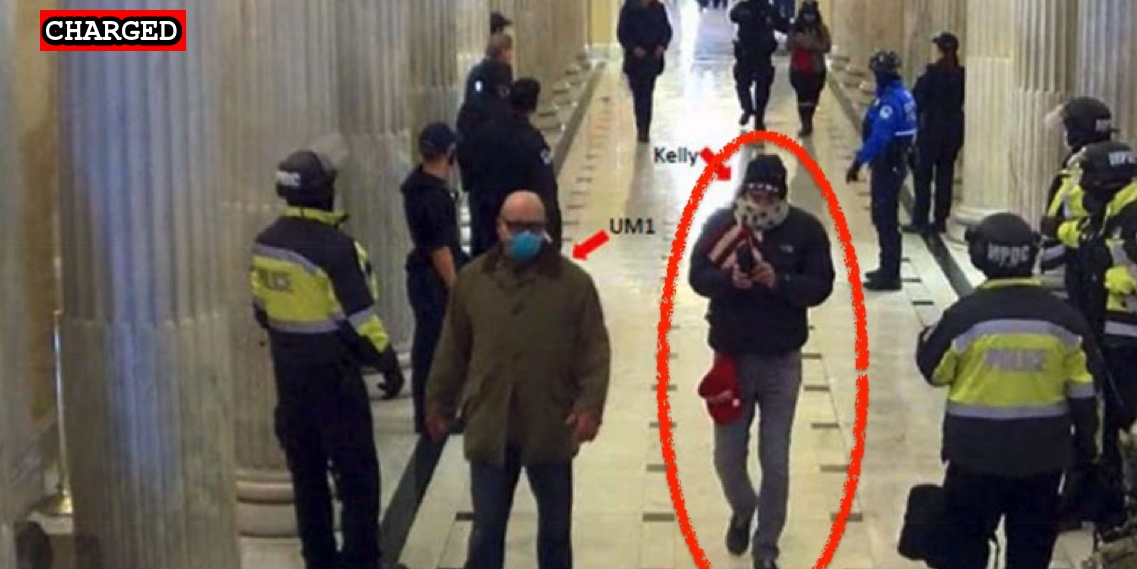
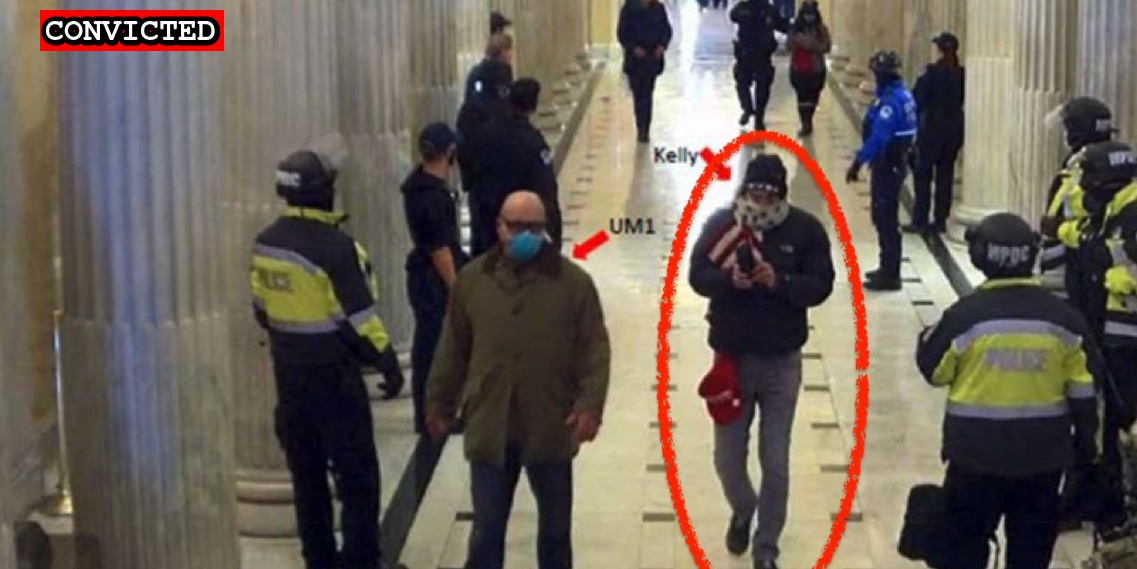
Kelly conviction

Changed region(s): [[0.0308, 0.0, 0.2155, 0.0896]]

diff --git a/docs/_suspects/kenneth-kelly.md b/docs/_suspects/kenneth-kelly.md
@@ -3,11 +3,11 @@ name: Kenneth Kelly
 lastName: Kelly
 aka:
 residence: Florida
-status: Charged
+status: Convicted
 date: 2021-04-21
 charged: 2021-04-21
 indicted:
-convicted:
+convicted: 2021-09-17
 sentenced:
 dismissed:
 age: 58
@@ -27,6 +27,11 @@ description: Click for latest case details. Suspects innocent until proven guilt
 author: seditiontrack
 layout: suspect
 published: true
+charges:
+  - code: 18 USC § 5104(e)(2)(G)
+    title: Parading, Demonstrating or Picketing in a Capitol Building
+    url: https://www.law.cornell.edu/uscode/text/40/5104
+    felony: false
 ---
 
 - [News Report](https://www.clickorlando.com/news/local/2021/04/23/tip-from-family-member-leads-to-arrest-of-capitol-riot-suspect-in-marion-county-fbi-says/)
